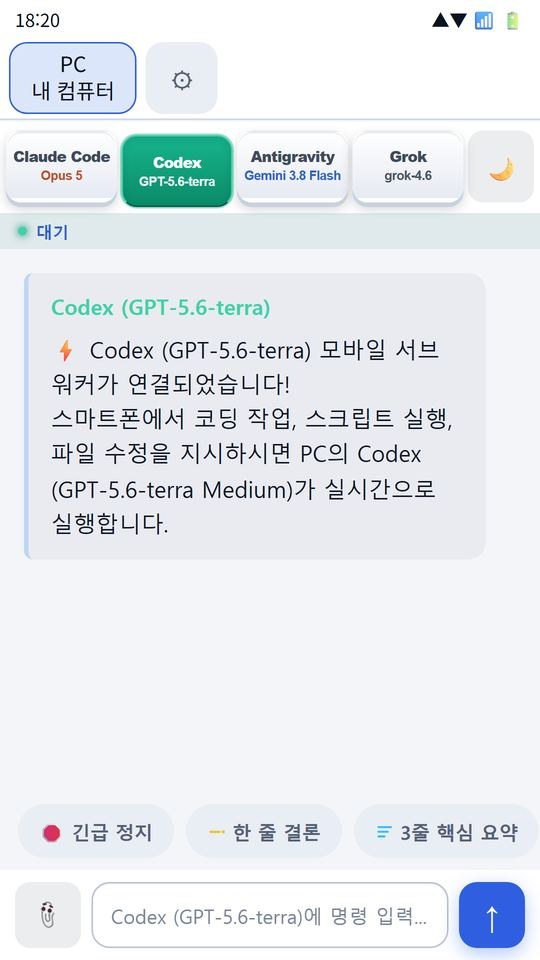
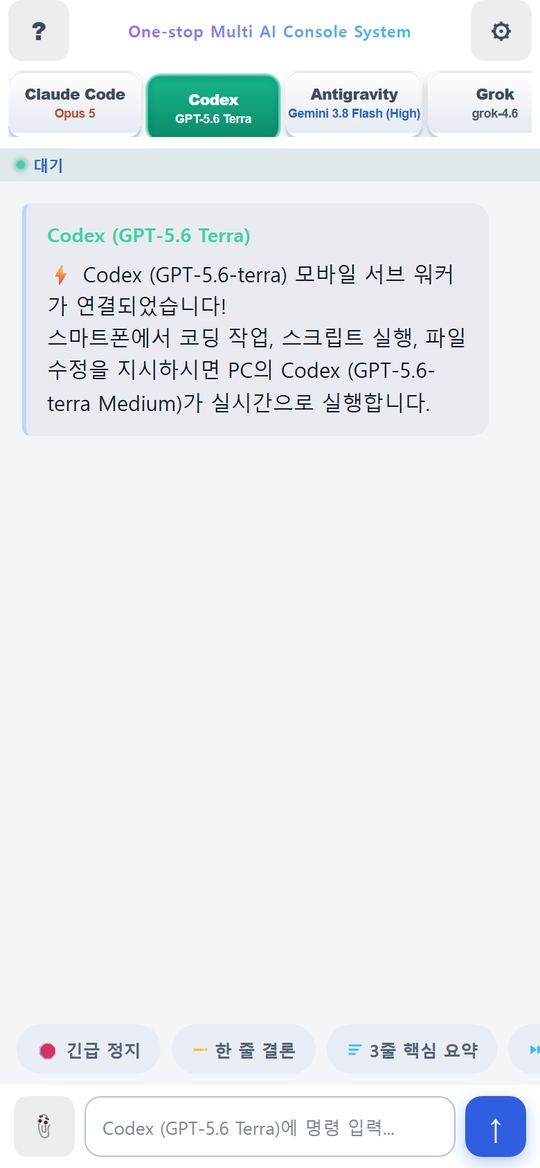
fix(guide): 제목 "One MACS · 원맥스 사용법" + 화면 개편 반영(맨 윗줄 ?·이름·⚙ · 화면 테마는 설정에서 · 통합 설정 항목 · 탭 소제목=모델) · 새 데모 실화면으로 이미지 교체 (PO 결정)
- h1·<title>·경로 표시 끝 "One MACS · 원맥스 사용법"
- 2절: 맨 윗줄(왼쪽 ? 사용법 · 가운데 One-stop Multi AI Console System · 오른쪽 ⚙), PC 탭 줄·AI 탭 줄엔 버튼 없음, 탭 소제목=지금 모델(변경은 설정), 점검 중 표시. 7절: ⚙ 설정 › 화면 테마(라이트·다크·기기 설정). 8절: 통합 설정 항목 17개·권한 모드("원맥스 전체 권한 켜줘"/"원맥스 안전 모드로")·다른 기기 로그아웃. 4절 "동시에 시켜"+기본 대상, 5절 알림·남은 한도 표시·제한 시간·자동 재시도 설정 반영. 옛 ☀/🌙·갈색 상자·빨간 배지 언급 없음
- 이미지 16→11: 옛 탭 줄 버튼·옛 헤더가 보이던 캡처 7장 제거, 새 데모(7900) 실화면 9장(빈 대화·가짜 데이터 없음)으로 교체. 앱 온보딩 2장(코드·PIN)은 유지
- 오프라인 C:\trader-bot\_dist\배포판_문서원본\사용법.html 같이 재생성(620KB). check-copy 0건

Claude-Session: https://claude.ai/code/session_01HEtUMa1PLX434Fv7DYtGVQ

diff --git a/market/onemacs/guide.html b/market/onemacs/guide.html
@@ -3,7 +3,7 @@
 <head>
 <meta charset="UTF-8">
 <meta name="viewport" content="width=device-width, initial-scale=1">
-<title>사용법 — One MACS · 원맥스 | WAAT 앱마켓</title>
+<title>One MACS · 원맥스 사용법 | WAAT 앱마켓</title>
 <link rel="canonical" href="https://www.waat.community/market/onemacs/guide">
 <meta name="description" content="원맥스 사용법: 연결(페어링 코드·PIN), 화면 읽는 법, 일 시키는 법과 좋은 지시 예시 10개, AI 4종의 협업, 작업 감시와 알림, PC 여러 대, 권한 모드, 문제 해결, 동봉물.">
 <link rel="stylesheet" href="/css/theme.css?v=20260921a">
@@ -30,15 +30,16 @@
     </div>
 </nav>
 <!-- 원맥스 상품의 부속 페이지 (정식 URL /market/onemacs/guide). 전역 nav 미노출 — 상세 탭·설치·FAQ·콘솔 "?" 에서 진입. 같은 본문의 오프라인 파일: 배포판 사용법.html (빌드: 세션 스크래치 gd_build.py) — market/README.md -->
-<div class="topbar crumb"><a href="/market">앱마켓</a><span class="sep">›</span><a href="/market/onemacs">One MACS · 원맥스</a><span class="sep">›</span><span class="cur">사용법</span></div>
+<div class="topbar crumb"><a href="/market">앱마켓</a><span class="sep">›</span><a href="/market/onemacs">One MACS · 원맥스</a><span class="sep">›</span><span class="cur">One MACS · 원맥스 사용법</span></div>
 <div class="tabs"><a href="/market/onemacs">상세 보기</a><a href="/market/onemacs/reviews">리뷰<small id="rv-tab-count"></small></a><a href="/market/onemacs/guide" class="on" aria-current="page">사용법</a></div>
 
 <section style="padding-top:20px;padding-bottom:12px">
   <div class="wrap">
     <div class="brand"><img src="/market/img/onemacs_icon.png" alt="One MACS · 원맥스 로고" width="40" height="40"><div><b>One MACS · 원맥스</b><span>One-stop Multi AI Console System · 원스톱 멀티 AI 콘솔 시스템</span></div></div>
     <span class="eyebrow">사용법</span>
-    <h1>핸드폰에서 PC의 AI 4종에게 일을 시키는 법</h1>
-    <p class="lead">설치는 끝났고 코드 8자리를 받았다는 전제입니다. 아직이라면 <a href="/market/onemacs/install">PC에 원맥스 설치하기</a>를 먼저 보세요.</p>
+    <h1>One MACS · 원맥스 사용법</h1>
+    <p class="lead" style="margin-top:6px">핸드폰에서 PC의 AI 4종에게 일을 시키는 법.</p>
+    <p class="lead" style="margin-top:4px;font-size:15px;color:var(--fg2)">설치는 끝났고 코드 8자리를 받았다는 전제입니다. 아직이라면 <a href="/market/onemacs/install">PC에 원맥스 설치하기</a>를 먼저 보세요.</p>
     <nav class="toc" aria-label="목차"><b>목차</b><ol><li><a href="#connect">1. 연결하기 — 페어링 코드와 PIN</a></li><li><a href="#screen">2. 화면 읽는 법</a></li><li><a href="#ask">3. 일 시키는 법 — 좋은 지시 예시 10개</a></li><li><a href="#four">4. AI 4종의 역할과 협업</a></li><li><a href="#watch">5. 작업 감시와 알림</a></li><li><a href="#multi">6. PC 여러 대 · 프로젝트 추가</a></li><li><a href="#theme">7. 밝은 화면 · 어두운 화면</a></li><li><a href="#perm">8. 권한 모드 · 다른 기기 로그아웃</a></li><li><a href="#trouble">9. 문제가 생기면</a></li><li><a href="#bundle">10. 동봉물 — 트레이딩 시그널 · 매매 자동화 봇</a></li></ol></nav>
   </div>
 </section>
@@ -59,15 +60,16 @@
 <section id="screen" class="alt">
   <div class="wrap">
     <h2>2. 화면 읽는 법</h2>
-    <div class="figs"><figure><img src="/market/img/guide/console.jpg" alt="콘솔 화면 — 위부터 PC 탭·설정, AI 탭 4개, 상태줄, 대화, 칩, 입력창" loading="lazy"><figcaption>콘솔 화면 — 위부터 PC 탭·설정, AI 탭 4개, 상태줄, 대화, 칩, 입력창</figcaption></figure></div>
+    <div class="figs"><figure><img src="/market/img/guide/console.jpg" alt="콘솔 화면 — 맨 윗줄 "?"·이름·⚙, AI 탭 4개(소제목은 지금 모델), 상태줄, 대화, 칩, 입력창" loading="lazy"><figcaption>콘솔 화면 — 맨 윗줄 "?"·이름·⚙, AI 탭 4개(소제목은 지금 모델), 상태줄, 대화, 칩, 입력창</figcaption></figure></div>
     <dl class="kv">
-      <dt>PC 탭 · ⚙</dt><dd>맨 위. PC 가 여러 대면 탭이 여러 개입니다. ⚙ 는 설정(8·9절).</dd>
-      <dt>AI 탭 4개</dt><dd>Claude Code · Codex · Antigravity · Grok. 탭마다 지금 쓰는 모델 이름이 작게 적혀 있습니다. 계정이 없는 AI 는 탭이 비어 있습니다. 탭 줄 오른쪽 끝 🌙/☀ 는 화면 밝기(7절).</dd>
+      <dt>맨 윗줄</dt><dd>왼쪽 <b>?</b> 는 이 사용법, 가운데는 이름(One-stop Multi AI Console System), 오른쪽 <b>⚙</b> 는 설정(8절). 버튼은 이 줄에만 있습니다.</dd>
+      <dt>PC 탭 줄</dt><dd>PC 가 여러 대면 그 아래에 PC 탭이 나란히 나옵니다. 탭을 눌러 PC 를 오갑니다.</dd>
+      <dt>AI 탭 4개</dt><dd>Claude Code · Codex · Antigravity · Grok. 탭의 작은 글씨는 <b>지금 쓰는 모델</b>입니다(바꾸는 곳은 ⚙ 설정 › 모델 선택). 계정이 없는 AI 는 탭이 비어 있고, 잠시 쓸 수 없는 AI 는 소제목에 "점검 중"이라고 나옵니다.</dd>
       <dt>상태줄</dt><dd>탭 바로 아래 한 줄. <b>대기 / 작업 중</b>, <b>남은 한도</b>(그 AI 구독의 5시간·7일 한도), <b>메시지 수</b>, 그리고 <b>요약 ▾</b> — 답을 "요약 · 상세 · 전체" 중 어떻게 보여줄지 고르는 곳입니다. 처음엔 요약이 편합니다.</dd>
-      <dt>대화</dt><dd>내 지시는 오른쪽 파란 채팅창, AI 의 답은 왼쪽 상자입니다.</dd>
+      <dt>대화</dt><dd>내 지시는 오른쪽 파란 칸, AI 의 답은 왼쪽 상자입니다.</dd>
       <dt>칩 (입력창 위)</dt><dd><b>🛑 긴급 정지</b> — AI 가 하던 일을 바로 멈춥니다(작업 중일 때만 보임). <b>한 줄 결론 · 3줄 핵심 요약 · 계속 진행</b> — 자주 쓰는 말을 한 번에 보냅니다.</dd>
       <dt>📎 · 입력창 · ↑</dt><dd>📎 로 사진이나 파일을 올리고, 입력창에 지시를 적고, ↑ 로 보냅니다.</dd>
-      <dt>프로젝트 선택</dt><dd>PC 탭 아래 <b>[프로젝트 ▾]</b>. 어느 폴더에서 일할지 고릅니다. 기본은 "트레이딩 시그널"(6절).</dd>
+      <dt>프로젝트 선택</dt><dd>PC 탭 아래 <b>[프로젝트 ▾]</b>. 어느 폴더에서 일할지 고릅니다. 프로젝트가 하나뿐이면 보이지 않습니다. 기본은 "트레이딩 시그널"(6절).</dd>
     </dl>
   </div>
 </section>
@@ -76,7 +78,7 @@
   <div class="wrap">
     <h2>3. 일 시키는 법 — 좋은 지시 예시 10개</h2>
     <p>말로 시키면 됩니다. 잘 되는 지시에는 세 가지가 들어 있습니다: <b>무엇을</b>, <b>어디에(어느 파일·폴더)</b>, <b>결과를 어떻게 줄지</b>.</p>
-    <div class="figs"><figure><img src="/market/img/guide/answer.jpg" alt="지시를 보낸 직후 — 내 지시가 오른쪽 파란 칸에" loading="lazy"><figcaption>지시를 보낸 직후 — 내 지시가 오른쪽 파란 칸에</figcaption></figure></div>
+    <div class="figs"><figure><img src="/market/img/guide/typing.jpg" alt="입력창에 지시를 적은 모습 — ↑ 로 보냅니다" loading="lazy"><figcaption>입력창에 지시를 적은 모습 — ↑ 로 보냅니다</figcaption></figure></div>
     <ol class="examples">
       <li>이 폴더의 엑셀 파일을 전부 합쳐서 월별 합계 시트가 있는 <span class="mono">합계.xlsx</span> 로 만들어줘.</li>
       <li>회의록.txt 를 읽고 할 일만 뽑아 <span class="mono">오늘할일.md</span> 에 담당자·기한과 함께 정리해줘.</li>
@@ -113,7 +115,7 @@
       <dt>Antigravity</dt><dd>Google 계정으로 로그인해 씁니다(무료 플랜부터). 초안·자료 정리 같은 빠른 일에 편합니다.</dd>
       <dt>Grok</dt><dd>최근 소식이나 다른 관점이 필요할 때.</dd>
     </dl>
-    <p><b>동시에 시키기</b> — 탭은 서로 독립이라 Claude Code 탭에 긴 작업을 걸어 두고, Codex 탭으로 넘어가 다른 일을 시켜도 됩니다. 각 탭의 상태줄이 따로 "작업 중"을 보여줍니다. 같은 파일을 두 AI 에게 동시에 고치게 하는 것만 피하세요.</p>
+    <p><b>동시에 시키기</b> — 지시 끝에 <b>"동시에 시켜"</b>라고 붙이면 같은 지시를 여러 AI 에게 한꺼번에 보냅니다. 누구에게 보낼지는 ⚙ 설정 › <b>동시에 시키기 기본 대상</b>(Codex+Antigravity / 셋 다)에서 정합니다. 탭은 서로 독립이라 Claude Code 탭에 긴 작업을 걸어 두고 Codex 탭으로 넘어가 다른 일을 시켜도 됩니다 — 각 탭의 상태줄이 따로 "작업 중"을 보여줍니다. 같은 파일을 두 AI 에게 동시에 고치게 하는 것만 피하세요.</p>
     <p class="note">Codex·Antigravity·Grok 은 계정이 있으면 탭이 살아나고, 없으면 그 탭만 비어 있습니다. 한도·요금은 각 AI 의 본인 구독 기준입니다.</p>
   </div>
 </section>
@@ -121,11 +123,11 @@
 <section id="watch">
   <div class="wrap">
     <h2>5. 작업 감시와 알림</h2>
-    <div class="figs"><figure><img src="/market/img/guide/hub.jpg" alt="작업 중인 콘솔 — 상태줄에 남은 한도와 메시지 수, 답은 요약본으로" loading="lazy"><figcaption>작업 중인 콘솔 — 상태줄에 남은 한도와 메시지 수, 답은 요약본으로</figcaption></figure></div>
     <ul class="plain">
       <li><b>상태줄</b>이 "작업 중"이면 AI 가 일하는 중입니다. 앱을 닫아도 PC 에서는 계속 일합니다.</li>
-      <li><b>남은 한도</b>는 그 AI 구독의 5시간·7일 한도입니다. 한도가 차면 다른 탭으로 이어서 하거나 풀릴 때까지 기다립니다.</li>
-      <li><b>알림</b> — 처음 연결할 때 알림을 허용해 두면 AI 작업이 끝났을 때 핸드폰에 알려 줍니다. 앱이 화면에 있을 때는 20초, 뒤에 있을 때는 60초마다 확인합니다.</li>
+      <li><b>남은 한도</b> — ⚙ 설정 › <b>남은 한도 표시</b>를 켜면 상태줄에 그 AI 구독의 5시간·7일 남은 비율이 나옵니다. 한도가 차면 다른 탭으로 이어서 하거나 풀릴 때까지 기다립니다.</li>
+      <li><b>알림</b> — ⚙ 설정 › <b>작업 끝나면 알림</b>이 켜져 있고 처음 연결할 때 알림을 허용했다면, 앱이 뒤에 있을 때 작업이 끝나면 핸드폰에 알려 줍니다. 앱이 화면에 있을 때는 20초, 뒤에 있을 때는 60초마다 확인합니다.</li>
+      <li><b>작업 제한 시간 · 실패 시 자동 재시도</b> — ⚙ 설정에서 AI 마다 제한 시간을 기본값보다 늘릴 수 있고, 실패하면 한 번 더 시도한 뒤 결과를 알려 주게 할 수 있습니다.</li>
       <li>급하게 멈추려면 <b>🛑 긴급 정지</b> 칩.</li>
     </ul>
   </div>
@@ -134,7 +136,6 @@
 <section id="multi" class="alt">
   <div class="wrap">
     <h2>6. PC 여러 대 · 프로젝트 추가</h2>
-    <div class="figs"><figure><img src="/market/img/guide/project.jpg" alt="프로젝트 선택 — 기본 "트레이딩 시그널", 아래 "프로젝트 추가"" loading="lazy"><figcaption>프로젝트 선택 — 기본 "트레이딩 시그널", 아래 "프로젝트 추가"</figcaption></figure></div>
     <ul class="plain">
       <li><b>PC 를 더 붙이려면</b> 그 PC 에서도 설치 안내를 한 번 하고, 새 코드 8자리를 앱에 넣습니다. PC 탭이 하나 더 생기고 탭을 눌러 오갑니다. PC 이름표는 그 PC 의 Claude Code 에 "PC 이름표 바꿔줘".</li>
       <li><b>프로젝트(폴더)를 더 만들려면</b> [프로젝트 ▾] → <b>프로젝트 추가</b> 에서 폴더 이름을 넣습니다. PC 의 원맥스 폴더 아래에 그 이름의 폴더가 생기고, 그 안에서 AI 가 일합니다.</li>
@@ -147,16 +148,18 @@
   <div class="wrap">
     <h2>7. 밝은 화면 · 어두운 화면</h2>
     <div class="figs two"><figure><img src="/market/img/guide/light.jpg" alt="밝은 화면" loading="lazy"><figcaption>밝은 화면</figcaption></figure><figure><img src="/market/img/guide/dark.jpg" alt="어두운 화면" loading="lazy"><figcaption>어두운 화면</figcaption></figure></div>
-    <p>콘솔의 AI 탭 줄 오른쪽 끝 <b>🌙 / ☀</b> 버튼을 누르면 바뀝니다. 선택은 그 PC 콘솔에 저장되어 다음에 열 때도 유지됩니다.</p>
+    <p>⚙ 설정 › <b>화면 테마</b>에서 <b>라이트 · 다크 · 기기 설정</b> 중 고릅니다. "기기 설정"은 핸드폰의 밝기 설정을 그대로 따릅니다. 선택은 그 PC 콘솔에 저장되어 다음에 열 때도 유지됩니다.</p>
   </div>
 </section>
 
 <section id="perm" class="alt">
   <div class="wrap">
     <h2>8. 권한 모드 · 다른 기기 로그아웃</h2>
-    <div class="figs three"><figure><img src="/market/img/guide/settings.jpg" alt="설정 메뉴(⚙)" loading="lazy"><figcaption>설정 메뉴(⚙)</figcaption></figure><figure><img src="/market/img/guide/perm.jpg" alt="권한 모드 안내 창" loading="lazy"><figcaption>권한 모드 안내 창</figcaption></figure><figure><img src="/market/img/guide/logout.jpg" alt="다른 기기 로그아웃" loading="lazy"><figcaption>다른 기기 로그아웃</figcaption></figure></div>
+    <div class="figs two"><figure><img src="/market/img/guide/settings.jpg" alt="⚙ 설정 — 모델 선택 · 답 표시 방식 기본값 · 작업 끝나면 알림 · 동시에 시키기 기본 대상 · 작업 제한 시간" loading="lazy"><figcaption>⚙ 설정 — 모델 선택 · 답 표시 방식 기본값 · 작업 끝나면 알림 · 동시에 시키기 기본 대상 · 작업 제한 시간</figcaption></figure><figure><img src="/market/img/guide/settings2.jpg" alt="⚙ 설정(아래쪽) — 실패 시 자동 재시도 · 남은 한도 표시 · 권한 모드 · 화면 테마" loading="lazy"><figcaption>⚙ 설정(아래쪽) — 실패 시 자동 재시도 · 남은 한도 표시 · 권한 모드 · 화면 테마</figcaption></figure></div>
+    <p>맨 윗줄 오른쪽 <b>⚙</b> 를 누르면 설정이 한 화면에 모여 있습니다. 바꾼 값은 이 PC 의 콘솔에 저장되고 다음 지시부터 적용됩니다.</p>
     <dl class="kv">
-      <dt>권한 모드</dt><dd>설정(⚙) › 권한 모드 에서 지금 모드를 확인합니다. <b>안전 모드</b>(기본)에서는 AI 가 작업 폴더 안에서만 읽고 씁니다. <b>전체 권한 모드</b>에서는 AI 가 PC 의 다른 파일도 바꿀 수 있습니다. 바꾸는 것은 PC 에서만 됩니다 — PC 의 Claude Code 에 "원맥스 안전 모드로" / "원맥스 전체 권한 모드로".</dd>
+      <dt>설정 항목</dt><dd>사용법 보기 · 모델 선택(AI 별) · 답 표시 방식 기본값(요약·상세·전체) · 작업 끝나면 알림 · 동시에 시키기 기본 대상 · 작업 제한 시간 · 실패 시 자동 재시도 · 남은 한도 표시 · 화면 테마 · 코드 바꾸기 · PIN 다시 입력 · 허브 주소 · 다시 연결 · 개인정보처리방침 · 문제 신고 · 권한 모드 · 다른 기기 로그아웃</dd>
+      <dt>권한 모드</dt><dd>설정에 지금 모드가 표시됩니다. <b>안전 모드</b>(기본)에서는 AI 가 작업 폴더 안에서만 읽고 씁니다. <b>전체 권한 모드</b>에서는 AI 가 PC 의 다른 파일도 바꿀 수 있습니다. 권한 모드와 PIN 은 PC 에서만 바꿀 수 있습니다 — PC 의 Claude Code 에 "원맥스 전체 권한 켜줘" 또는 "원맥스 안전 모드로".</dd>
       <dt>다른 기기 로그아웃</dt><dd>설정 › 다른 기기 로그아웃. 이 핸드폰을 제외한 다른 기기의 접속을 모두 끊습니다. 핸드폰을 바꿨거나 남에게 코드가 알려졌을 때 쓰세요. 그다음 PIN 을 바꾸면(설정 › PIN 다시 입력 또는 PC 에서) 더 안전합니다.</dd>
     </dl>
     <p class="note">PIN 이 유일한 잠금입니다. 페어링 코드와 PIN 은 남에게 알려주지 마세요. 자세한 내용은 <a href="/market/onemacs/notice">알아 두실 점</a>.</p>
@@ -166,11 +169,10 @@
 <section id="trouble">
   <div class="wrap">
     <h2>9. 문제가 생기면</h2>
-    <div class="figs"><figure><img src="/market/img/guide/noresp.jpg" alt="PC가 응답하지 않을 때 나오는 화면" loading="lazy"><figcaption>PC가 응답하지 않을 때 나오는 화면</figcaption></figure></div>
     <ol class="steps">
       <li>PC 의 Claude Code 에 <b>"원맥스 진단해줘"</b> 라고 하세요. 동봉된 <span class="mono">원맥스_진단.md</span> 를 읽고 원인을 찾아 알려 줍니다.</li>
       <li>자주 막히는 10가지는 <a href="/market/onemacs/faq">자주 묻는 질문</a>에 있습니다 — PIN 을 잊었을 때, 코드가 안 뜰 때, 연결이 끊길 때, 한도 초과, 실행 창을 닫았을 때 등.</li>
-      <li>그래도 안 되면 앱의 설정(⚙) › <b>문제 신고 (메일)</b>. 핸드폰 안에 남은 오류 기록(시각·종류, PIN 은 제외)이 메일에 담겨 열립니다.</li>
+      <li>그래도 안 되면 ⚙ 설정 › <b>문제 신고</b>. 핸드폰 안에 남은 오류 기록(시각·종류, PIN 은 제외)이 메일에 담겨 열립니다.</li>
     </ol>
     <p class="note">"PC 콘솔이 응답하지 않습니다"가 뜨면 PC 가 켜져 있고 검은 실행 창(1클릭_실행.bat)이 열려 있는지 먼저 보세요. 인터넷이 다시 붙으면 앱이 자동으로 다시 연결합니다.</p>
   </div>
@@ -179,7 +181,6 @@
 <section id="bundle" class="alt">
   <div class="wrap">
     <h2>10. 동봉물 — 트레이딩 시그널 · 매매 자동화 봇</h2>
-    <div class="figs"><figure><img src="/market/img/guide/scanner.jpg" alt="동봉된 트레이딩 시그널 — 스캐너와 전략 카드" loading="lazy"><figcaption>동봉된 트레이딩 시그널 — 스캐너와 전략 카드</figcaption></figure></div>
     <p>원맥스에는 기본 프로젝트 "트레이딩 시그널"이 따라옵니다. 국내 주식 262종목 스캐너와 전략 카드, 말로 전략 만들기가 들어 있고, 앱 헤더의 <b>스캐너</b> 버튼으로 엽니다. 매매 자동화 봇은 세 가지로 구성됩니다 — <b>신호 전략</b>(언제 살지), <b>운영 전략</b>(얼마나·언제 팔지), <b>봇</b>(실제로 주문을 내는 프로그램).</p>
     <ul class="plain">
       <li>설치·실행 준비 안내: <a href="/market/onemacs/install#bot">트레이딩 시그널 설치 안내</a></li>
